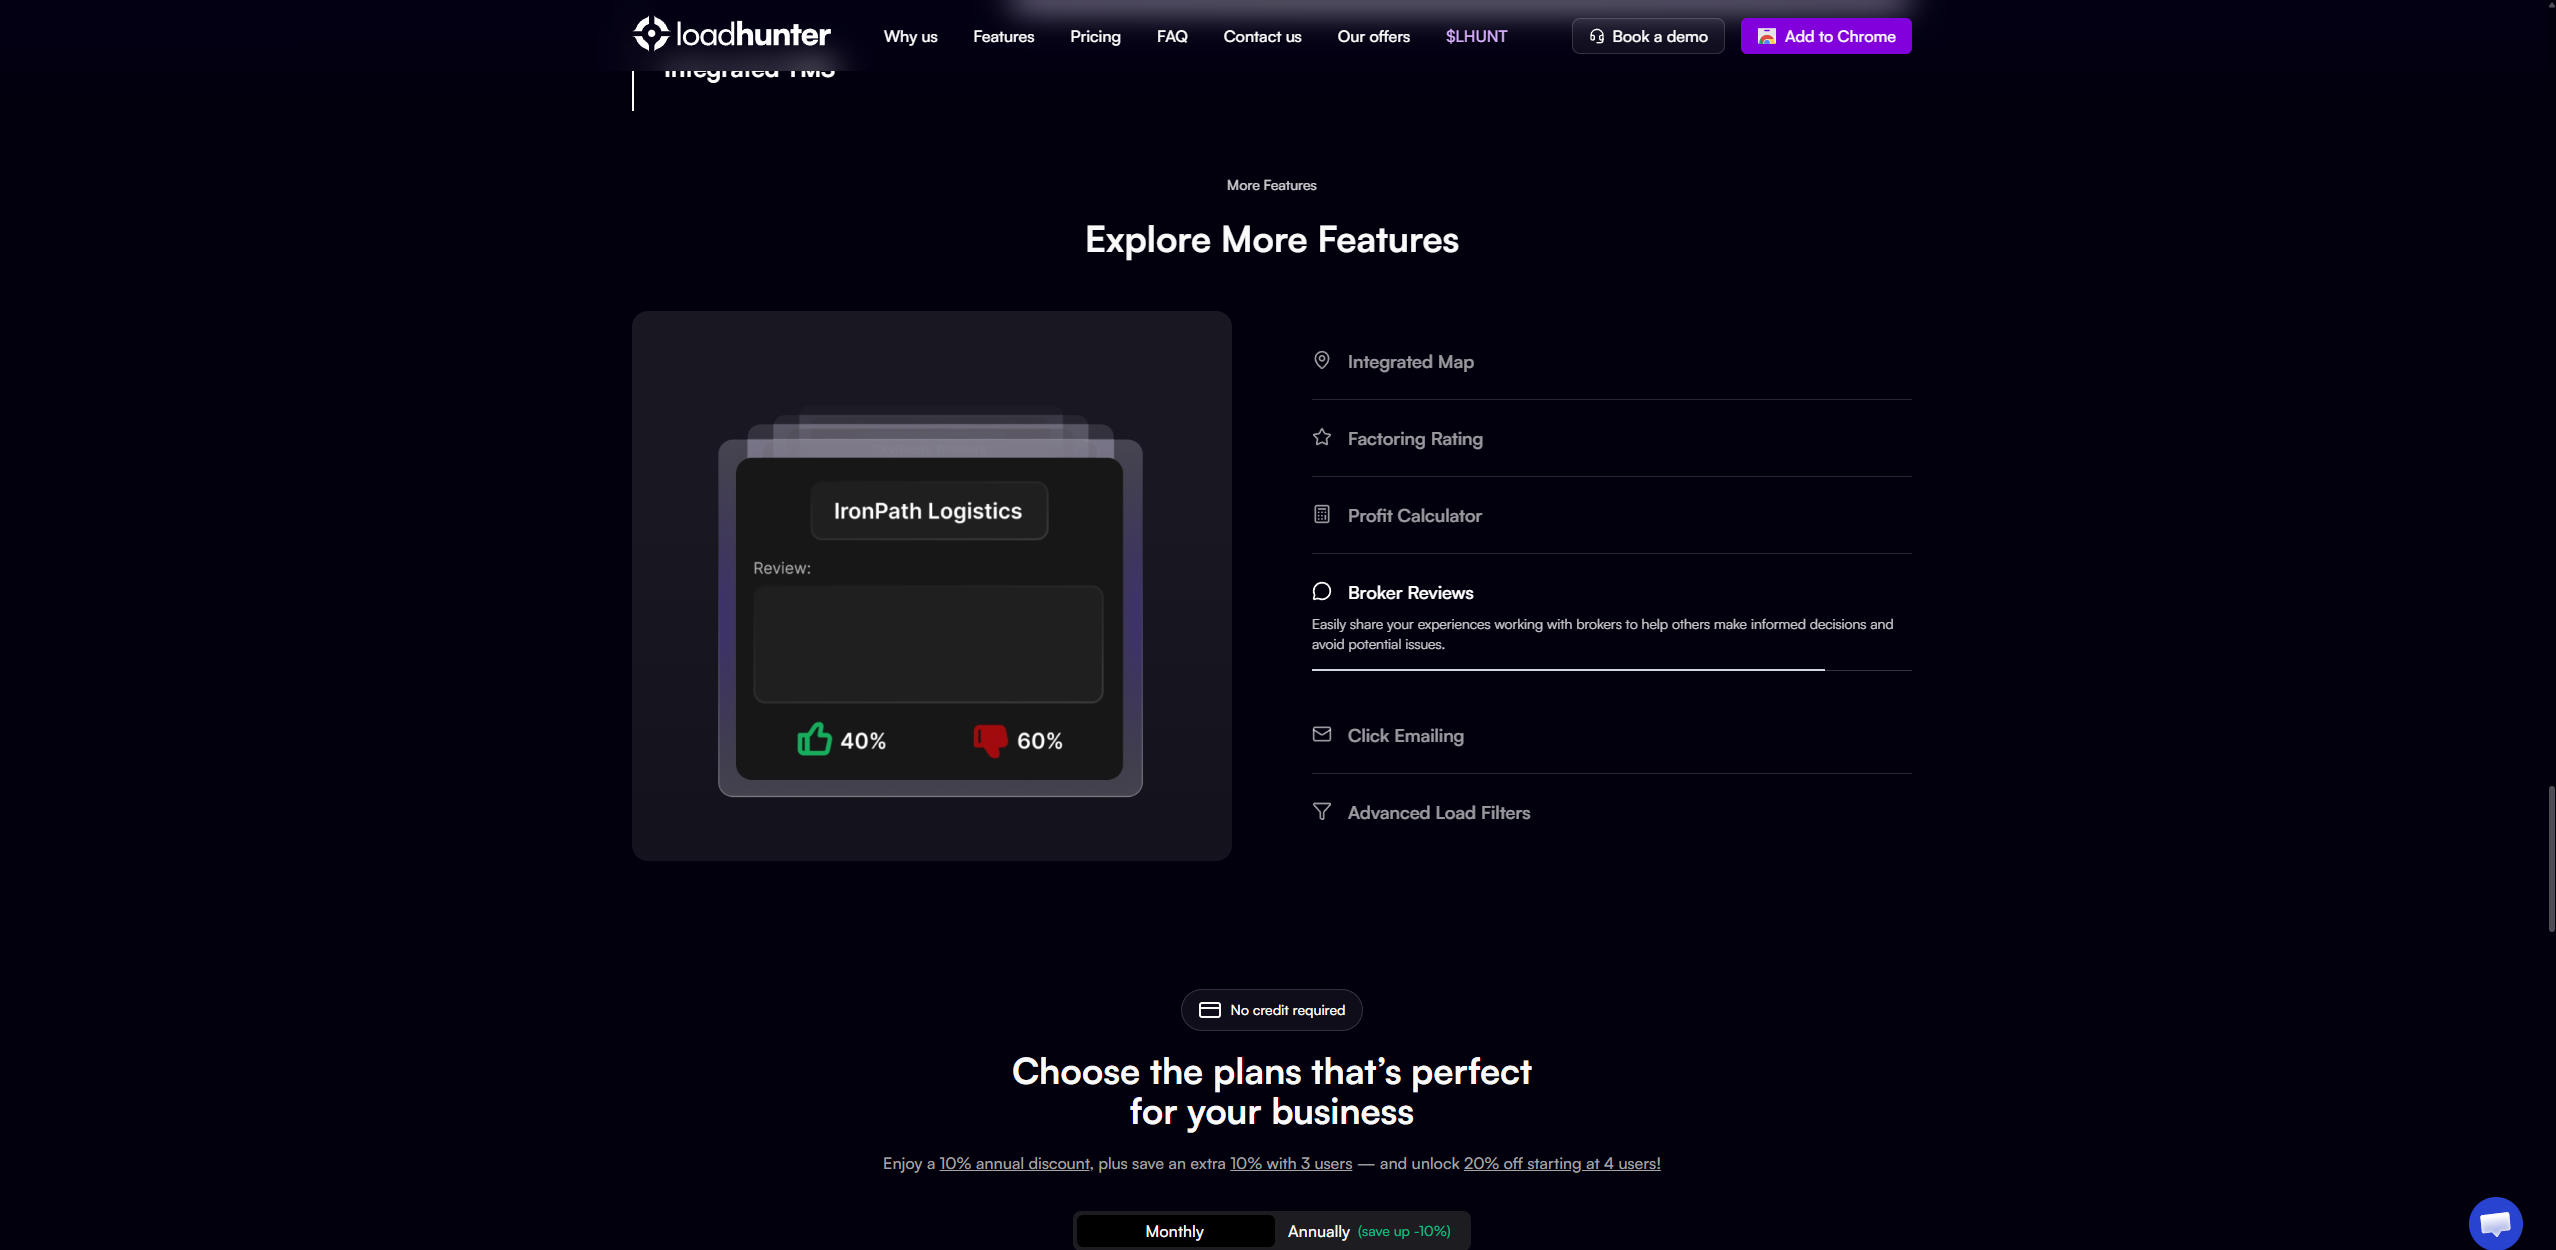
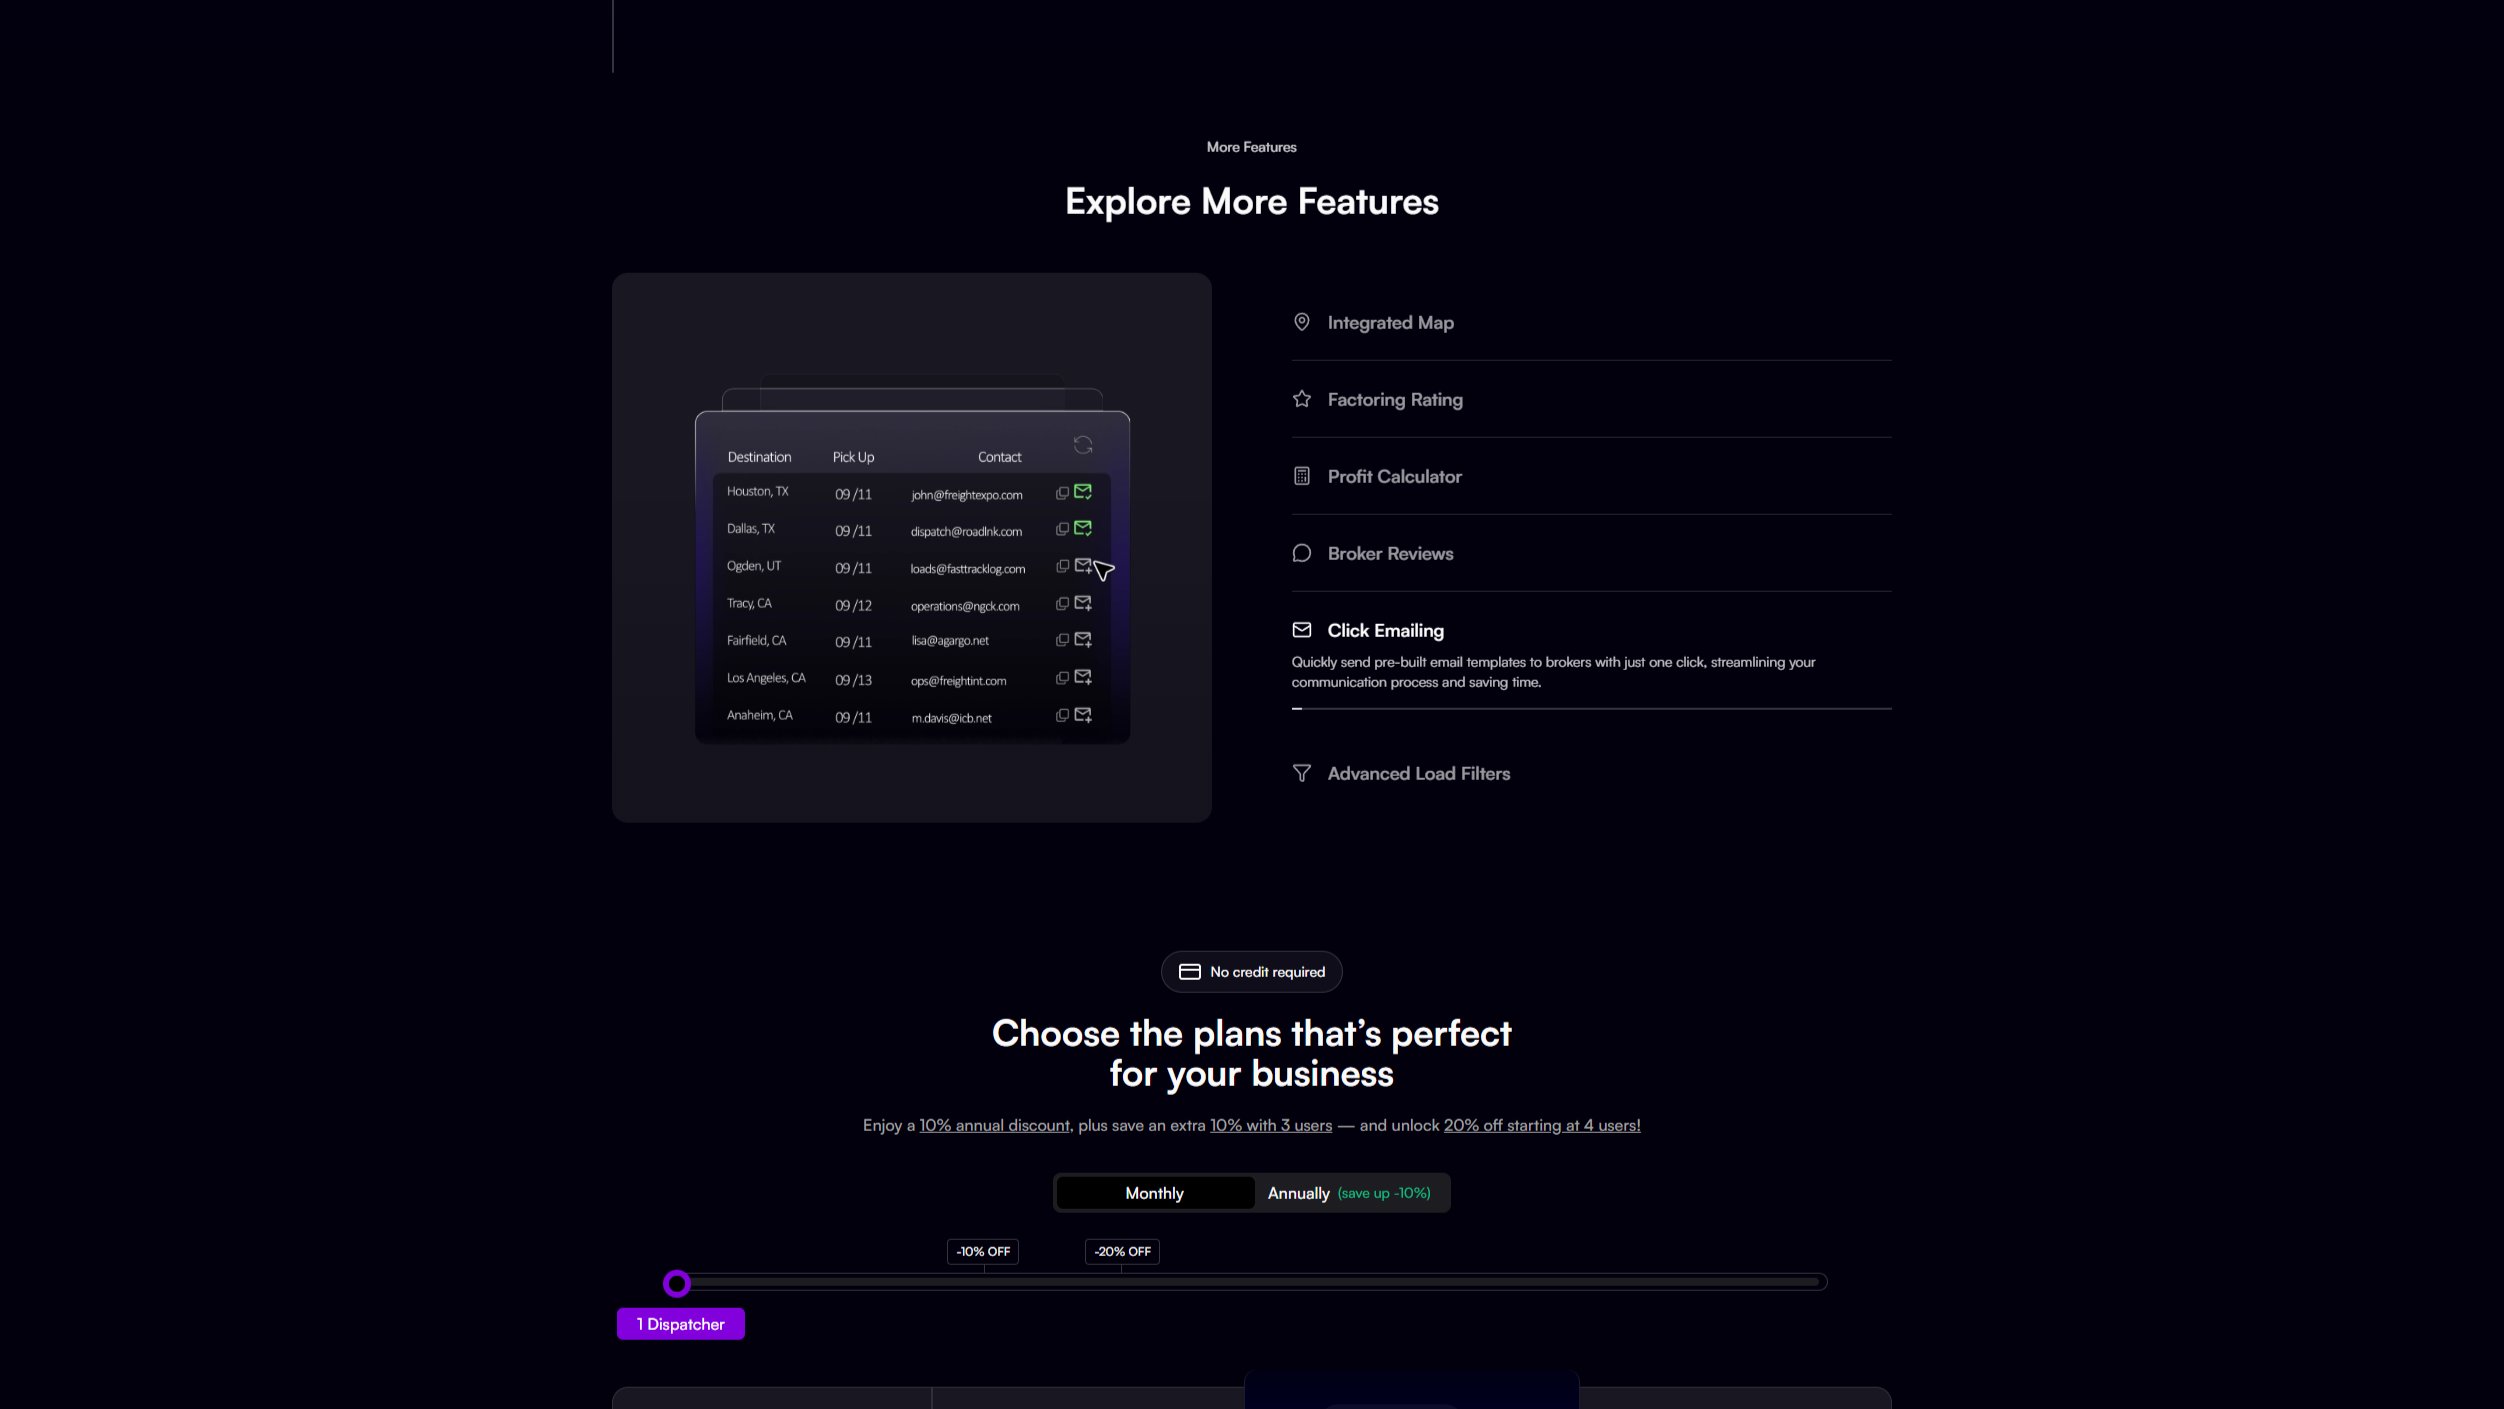
add other projects section

diff --git a/src/components/ui/card.tsx b/src/components/ui/card.tsx
@@ -1,0 +1,103 @@
+import type { ComponentProps } from 'react'
+
+import { cn } from '#/lib/utils.ts'
+
+function Card({
+  className,
+  size = 'default',
+  ...props
+}: ComponentProps<'div'> & { size?: 'default' | 'sm' }) {
+  return (
+    <div
+      data-slot="card"
+      data-size={size}
+      className={cn(
+        'group/card flex flex-col gap-6 overflow-hidden rounded-xl bg-card py-6 text-sm text-card-foreground shadow-xs ring-1 ring-foreground/10 has-[>img:first-child]:pt-0 data-[size=sm]:gap-4 data-[size=sm]:py-4 *:[img:first-child]:rounded-t-xl *:[img:last-child]:rounded-b-xl',
+        className,
+      )}
+      {...props}
+    />
+  )
+}
+
+function CardHeader({ className, ...props }: ComponentProps<'div'>) {
+  return (
+    <div
+      data-slot="card-header"
+      className={cn(
+        'group/card-header @container/card-header grid auto-rows-min items-start gap-1 rounded-t-xl px-6 group-data-[size=sm]/card:px-4 has-data-[slot=card-action]:grid-cols-[1fr_auto] has-data-[slot=card-description]:grid-rows-[auto_auto] [.border-b]:pb-6 group-data-[size=sm]/card:[.border-b]:pb-4',
+        className,
+      )}
+      {...props}
+    />
+  )
+}
+
+function CardTitle({ className, ...props }: ComponentProps<'div'>) {
+  return (
+    <div
+      data-slot="card-title"
+      className={cn(
+        'text-base leading-normal font-medium group-data-[size=sm]/card:text-sm',
+        className,
+      )}
+      {...props}
+    />
+  )
+}
+
+function CardDescription({ className, ...props }: ComponentProps<'div'>) {
+  return (
+    <div
+      data-slot="card-description"
+      className={cn('text-sm text-muted-foreground', className)}
+      {...props}
+    />
+  )
+}
+
+function CardAction({ className, ...props }: ComponentProps<'div'>) {
+  return (
+    <div
+      data-slot="card-action"
+      className={cn(
+        'col-start-2 row-span-2 row-start-1 self-start justify-self-end',
+        className,
+      )}
+      {...props}
+    />
+  )
+}
+
+function CardContent({ className, ...props }: ComponentProps<'div'>) {
+  return (
+    <div
+      data-slot="card-content"
+      className={cn('px-6 group-data-[size=sm]/card:px-4', className)}
+      {...props}
+    />
+  )
+}
+
+function CardFooter({ className, ...props }: ComponentProps<'div'>) {
+  return (
+    <div
+      data-slot="card-footer"
+      className={cn(
+        'flex items-center rounded-b-xl px-6 group-data-[size=sm]/card:px-4 [.border-t]:pt-6 group-data-[size=sm]/card:[.border-t]:pt-4',
+        className,
+      )}
+      {...props}
+    />
+  )
+}
+
+export {
+  Card,
+  CardAction,
+  CardContent,
+  CardDescription,
+  CardFooter,
+  CardHeader,
+  CardTitle,
+}

diff --git a/src/components/sections/OtherProjects.tsx b/src/components/sections/OtherProjects.tsx
@@ -1,0 +1,97 @@
+import { ExternalLink } from 'lucide-react'
+
+import lhuntCoinImg from '#/assets/other-projects/lhunt-coin.png?picture'
+import loadhuntImg from '#/assets/other-projects/loadhunt.png?picture'
+import { Card, CardContent, CardFooter } from '#/components/ui/card'
+
+type ProjectProps = {
+  title: string
+  description: string
+  image: {
+    sources: { avif?: string; webp?: string; png?: string; jpeg?: string }
+    img: { src: string; w: number; h: number }
+  }
+  liveHref: string
+}
+
+const otherProjects: ProjectProps[] = [
+  {
+    title: 'Loadhunt Coin',
+    description:
+      "Landing page for the project's utility token — animated gradient background, scroll-driven sections, live price chart.",
+    image: lhuntCoinImg,
+    liveHref: 'https://coin.loadhunt.ai/',
+  },
+  {
+    title: 'Loadhunt',
+    description:
+      'Marketing site for the parent trucking platform — scroll drives the slide transitions and the rotating product wheel.',
+    image: loadhuntImg,
+    liveHref: 'https://loadhunt.ai/',
+  },
+]
+
+export function OtherProjects() {
+  return (
+    <section
+      id="other-projects"
+      className="col-start-2 col-end-3 flex flex-col gap-10 py-12"
+    >
+      <header className="flex flex-col gap-4 max-w-[70ch]">
+        <h2 className="text-headline">Other Projects</h2>
+        <p className="text-lede text-secondary-foreground/70">
+          More exists — these are the ones currently public.
+        </p>
+      </header>
+      <div className="grid lg:grid-cols-2 gap-6">
+        {otherProjects.map((project) => (
+          <ProductCard {...project} />
+        ))}
+      </div>
+    </section>
+  )
+}
+
+function ProductCard({ title, description, image, liveHref }: ProjectProps) {
+  return (
+    <Card className="pt-0">
+      <CardContent className="px-0">
+        <picture>
+          {image.sources.avif ? (
+            <source srcSet={image.sources.avif} type="image/avif" />
+          ) : null}
+          {image.sources.webp ? (
+            <source srcSet={image.sources.webp} type="image/webp" />
+          ) : null}
+          <img
+            src={image.img.src}
+            width={image.img.w}
+            height={image.img.h}
+            alt={title}
+            decoding="async"
+            loading="lazy"
+            className="rounded-t-md object-cover object-center h-60 w-full"
+          />
+        </picture>
+      </CardContent>
+      <CardFooter className="grid gap-3">
+        <h3>
+          <a
+            target="_blank"
+            rel="noopener noreferrer"
+            href={liveHref}
+            className="flex text-lede items-baseline gap-3 text-secondary-foreground group hover:text-blue-500 transition-colors"
+          >
+            {title}
+            <span className="flex gap-1 items-center text-caption font-medium text-muted-foreground group-hover:text-blue-500 transition-colors">
+              Live <ExternalLink className="size-4" />
+            </span>
+          </a>
+        </h3>
+        <p className="text-caption text-muted-foreground max-w-[80ch]">
+          {description}
+        </p>
+      </CardFooter>
+    </Card>
+  )
+}

diff --git a/src/routes/index.tsx b/src/routes/index.tsx
@@ -1,7 +1,8 @@
 import { createFileRoute } from '@tanstack/react-router'
 
-import { Intro } from '#/components/blocks/Intro'
-import { MainProject } from '#/components/blocks/MainProject'
+import { Intro } from '#/components/sections/Intro'
+import { MainProject } from '#/components/sections/MainProject'
+import { OtherProjects } from '#/components/sections/OtherProjects'
 import { getIntroSeen } from '#/lib/intro'
 
 export const Route = createFileRoute('/')({
@@ -15,6 +16,7 @@ function Home() {
     <main className="grid gap-20 px-2 grid-cols-[1fr_minmax(0,90ch)_1fr] min-h-screen">
       <Intro skip={introSeen} />
       <MainProject />
+      <OtherProjects />
     </main>
   )
 }